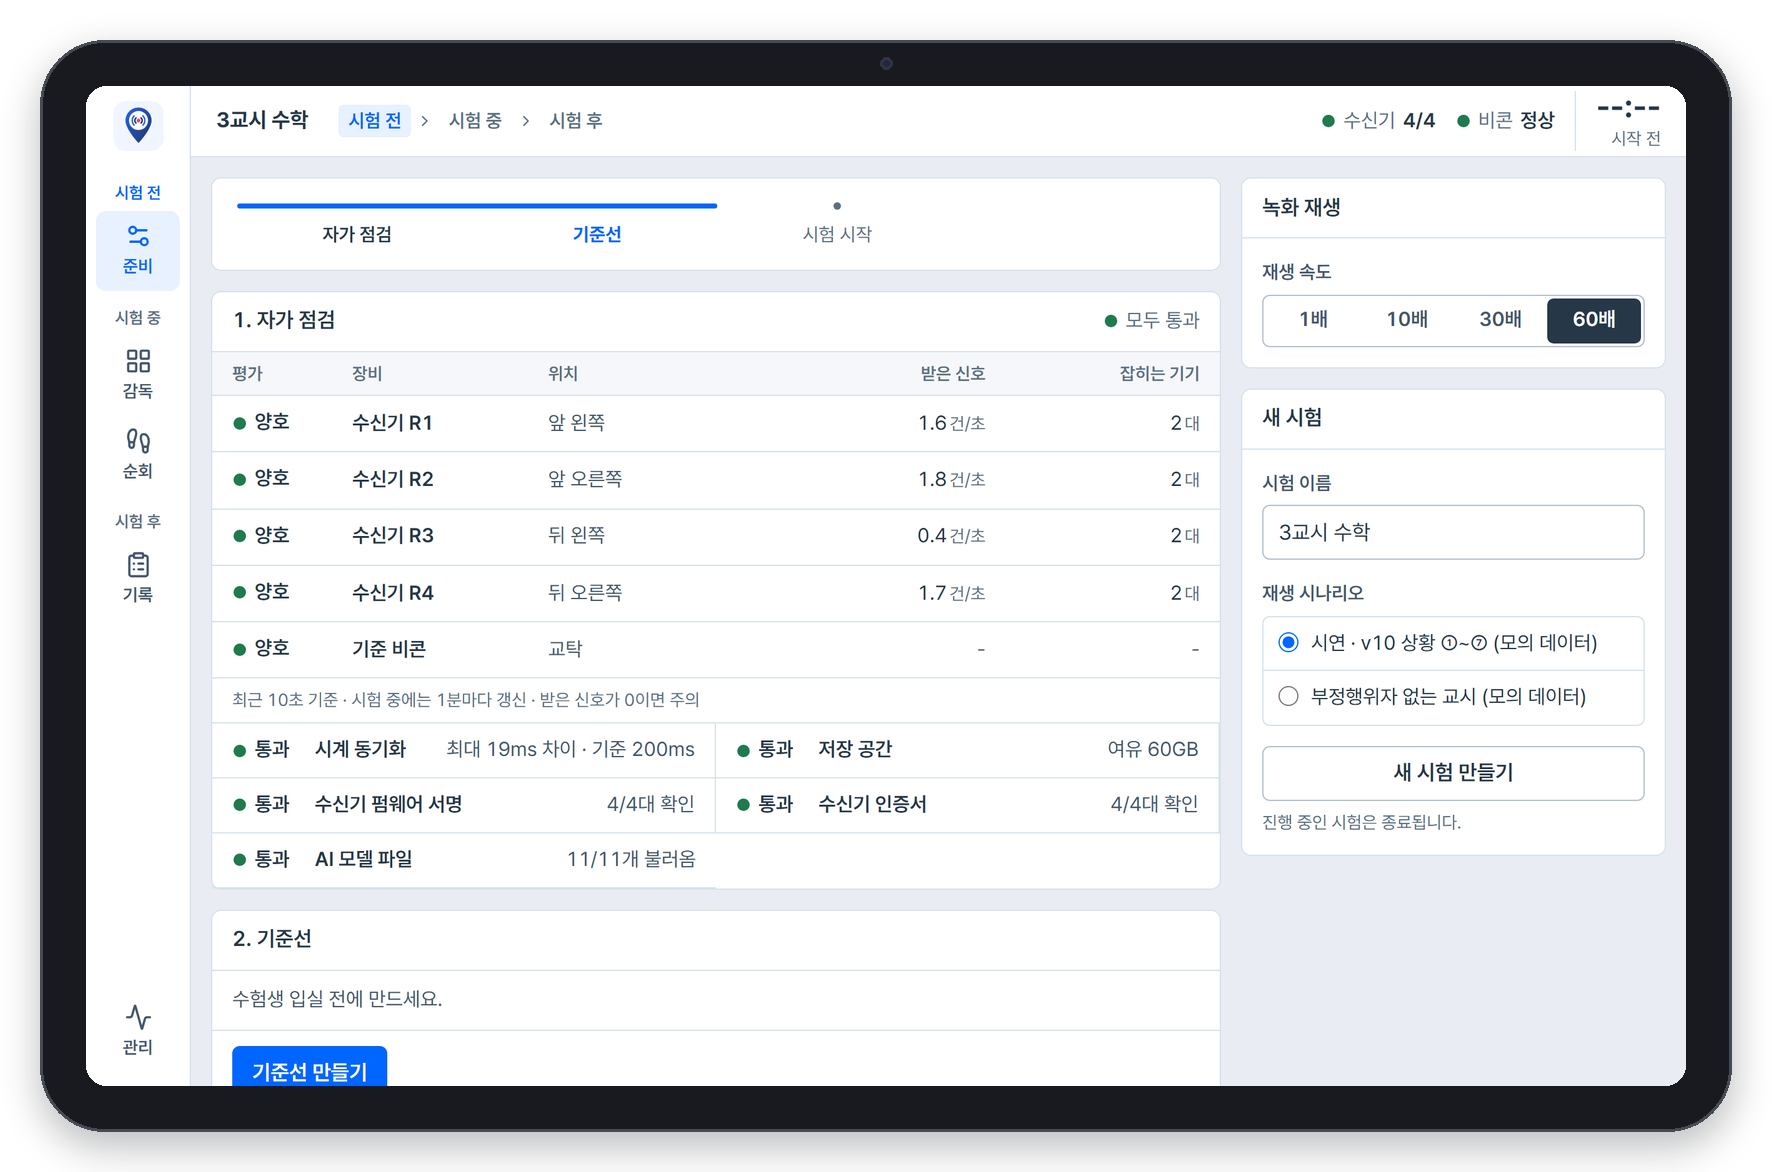
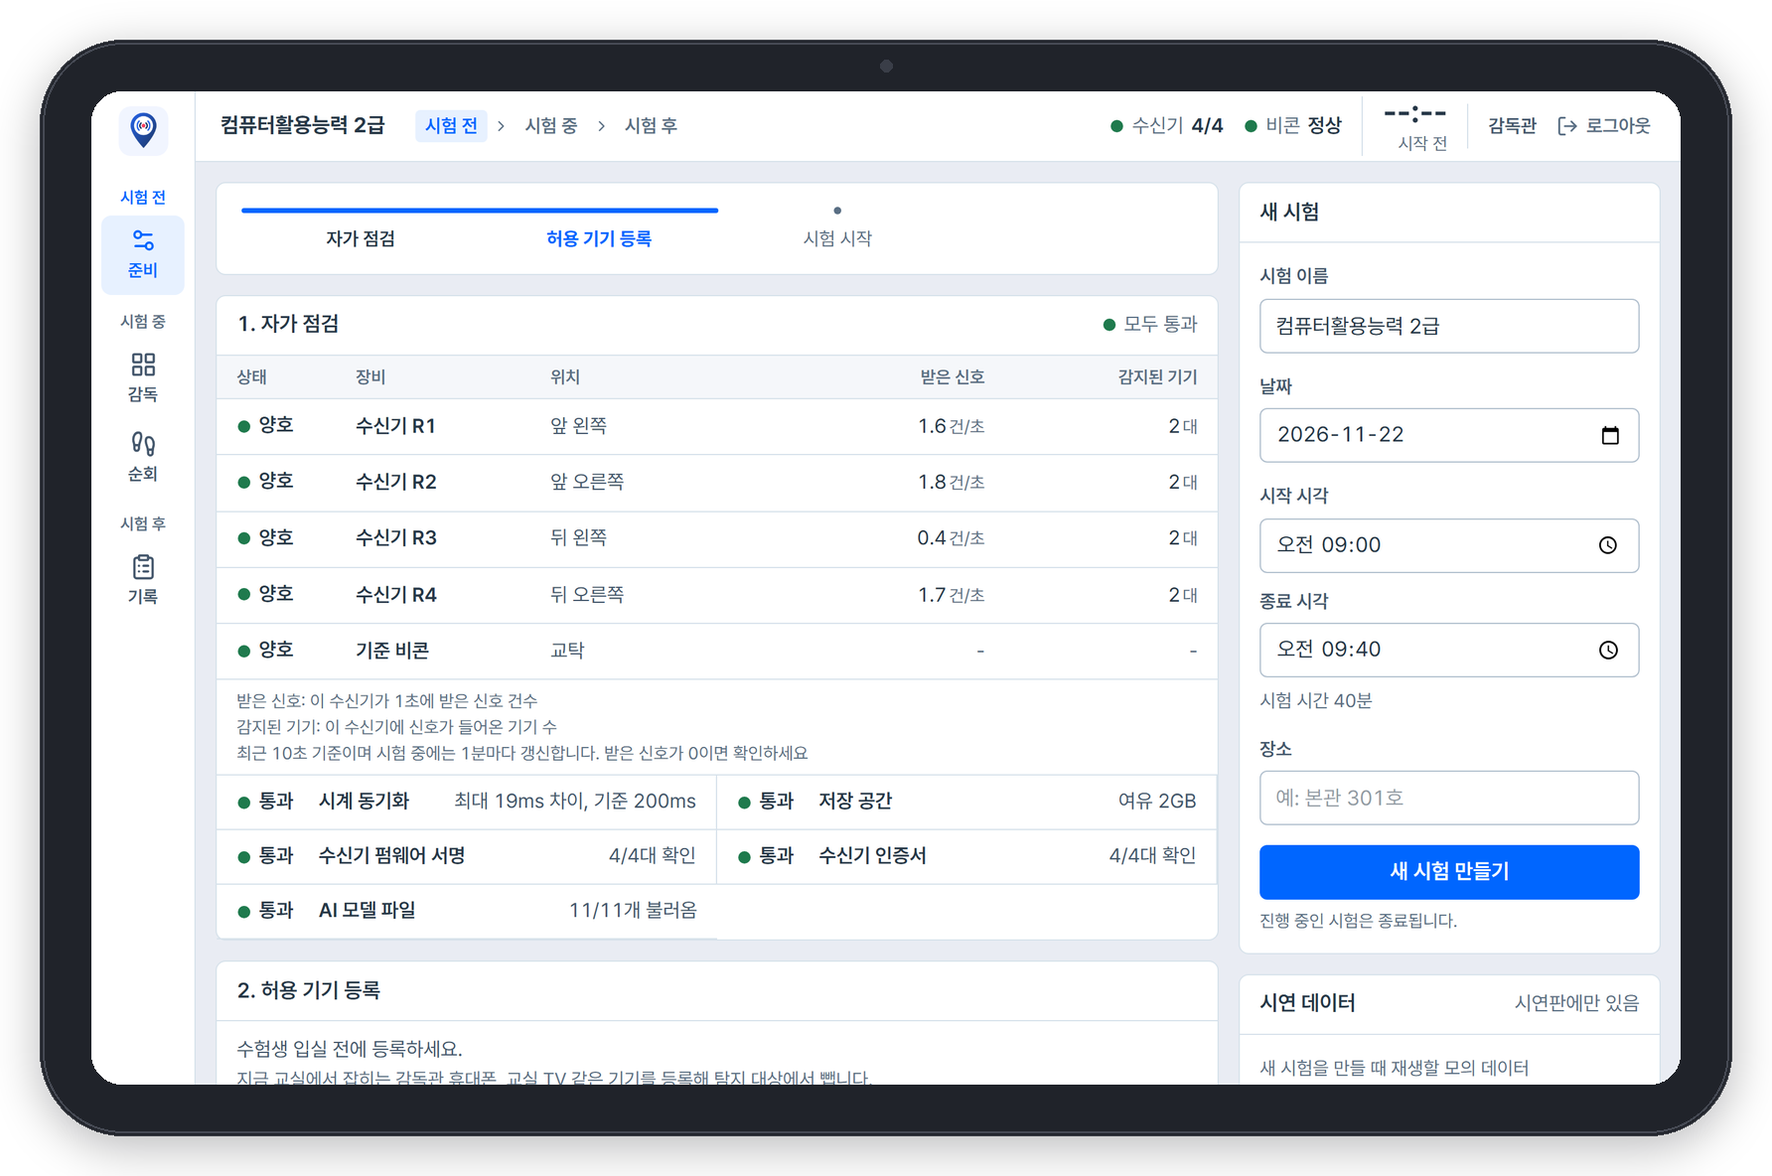
README: 로그인 · 역할, 40분 시험 기준으로 갱신, 화면 다시 캡처
- 배포판(wavespot-daup.vercel.app) 현재 화면으로 다시 캡처: 태블릿 18장, 휴대폰 4장, 대표 이미지
- 로그인과 역할 섹션 추가: 시연용 계정 3개, 역할별 화면 · 권한
- 눌러 보는 순서: 허용 기기 등록 → 감지 시작, 30배속, 09:09 · 09:20 요청, 09:30 R3 장애 시각
- 에이전트 경보 단계(Lv0~Lv4) 기준과 감독관 할 일 추가
- 첫 화면까지 걸리는 시간, 프로젝트 구조(로그인 · 권한 파일) 갱신

diff --git a/README.md b/README.md
@@ -26,8 +26,9 @@
 
 | 항목 | 내용 |
 |---|---|
-| **링크** | **https://wavespot-daup.vercel.app** · 설치 · 로그인 · API 키 없음 |
-| **첫 화면까지** | 처음 한 번 30초~1분 (서버와 AI 모델을 브라우저 안에 불러옴) |
+| **링크** | **https://wavespot-daup.vercel.app** · 설치 · API 키 없음 |
+| **로그인** | 시연용 계정 3개 · 누르면 자동 입력 |
+| **첫 화면까지** | 처음 20초 안팎 · 다시 열면 10초 남짓 |
 | **권장 화면** | 태블릿 가로 · PC 브라우저 · 휴대폰 |
 | **데이터** | 공개 데이터 · 논문 수치로 만든 모의 데이터 (실측 아님) |
 
@@ -36,18 +37,36 @@
   </tr>
 </table>
 
-웹 시연판은 현장 서버 코드(FastAPI · AI 에이전트 · 모델 6개)를 브라우저 안(Pyodide)에서 그대로 실행합니다. 새로고침하면 새 시험으로 다시 시작합니다.
+웹 시연판은 현장 서버 코드(FastAPI · AI 에이전트 · 모델 6개)를 브라우저 안(Pyodide)에서 그대로 실행합니다. 첫 화면까지 걸리는 시간은 이것을 내려받는 시간이며, 실제 시험장에서는 서버가 미리 켜져 있어 기다림이 없습니다. 시험은 30배속으로 재생되어 40분 시험이 2~3분 만에 끝납니다. 새로고침하면 새 시험으로 다시 시작하고, 로그아웃 후 다른 계정으로 들어가면 같은 시험을 이어서 볼 수 있습니다.
+
+<br/>
+
+## 로그인과 역할
+
+계정마다 볼 수 있는 화면과 할 수 있는 일이 다르며, 권한은 서버에서도 같은 기준으로 막습니다 (권한 밖 요청은 403).
+
+비밀번호는 세 계정 모두 **`wavespot2026`** 입니다.
+
+| 역할 | 보이는 화면 | 할 수 있는 일 |
+|---|---|---|
+| **감독관**<br/>`supervisor` | 준비 · 감독 · 순회 · 기록 | 교실에서 시험 진행. 순회, 수색 결과 입력, 감독관 의견 작성 |
+| **관리자**<br/>`admin` | 준비 · 감독(보기만) · 기록 · 관리 | 시험장 시스템과 장비 담당. 설정, 장애와 공격 모의 훈련 (시험 중 기준값은 잠김) |
+| **검토자**<br/>`auditor` | 기록 · 관리 | 시험 후 이의 제기와 판정을 검토하는 제3자. 열람만 가능 |
+
+서버에는 비밀번호 대신 PBKDF2 해시만 두고, 로그인하면 서명된 토큰(HMAC-SHA256, 12시간)을 받습니다.
 
 <br/>
 
 ## 직접 눌러 보는 순서 (약 5분)
 
-1. **준비** 탭: **기준선 만들기** → 시험 전 확인 2개 체크 → **감시 시작**
-2. 재생 속도를 **60배**로 바꾸면 40분 시험이 약 40초에 끝납니다.
-3. **감독** 탭: '이상 없음' → '관찰 중' → **AI 감지 카드** → **근거 보기**
-4. **휴대형으로 접근** → 순회 → 좌석을 골라 **발견 / 미발견** 입력
-5. 09:55 무렵 **수신기 R3 꺼짐** 경고 → 3대용 위치 모델로 전환 → 2분 뒤 복구
-6. **기록** 탭: 시험 후 리포트 / **관리** 탭: AI 에이전트 판단 과정 · 장애와 공격 모의 훈련 (장비 및 보안 탭에서 역할을 '관리자'로)
+1. 로그인 화면에서 **감독관**을 누르고 **로그인**
+2. **준비** 탭: 자가 점검 '모두 통과' 확인 → **허용 기기 등록** → 시험 전 확인 2개 체크 → **감지 시작**
+3. **감독** 탭: 09:07 '관찰 중' → 09:09 **정밀 수색 요청** (28번 주변 무선 이어폰) → **근거 보기**
+4. **순회** 탭에서 요청을 골라 경로 확인 → **순회 시작** → 신호가 강했던 좌석을 골라 **발견 / 미발견** 입력
+5. 09:20 두 번째 요청 (휴대폰, 영상 통화) → 근거 보기의 **Wi-Fi** 탭
+6. 09:30 **수신기 R3 꺼짐** 경고 → 3대용 위치 모델로 전환 → 2분 뒤 복구
+7. 09:40 시험 종료 → **기록** 탭: 시험 후 리포트
+8. 로그아웃 후 **관리자**로 들어가 **관리** 탭 (개요 · 에이전트 · 비상 대응 · 시스템), **검토자**로 들어가 같은 기록을 열람 전용으로 확인
 
 <br/>
 
@@ -55,30 +74,54 @@
 
 ### 태블릿 (가로 · 기준 화면)
 
+**시험 전**
+
 <table>
   <tr>
-    <td width="50%" align="center"><img src="docs/images/tablet/02_setup_baseline.png" alt="준비 · 기준선"/><br/><b>① 준비 · 기준선 만들기</b><br/><sub>입실 전 신호를 허용 목록에 등록 · 시험 전 확인 2개를 체크해야 감시 시작</sub></td>
-    <td width="50%" align="center"><img src="docs/images/tablet/03_monitor_clear.png" alt="감독 · 이상 없음"/><br/><b>② 감독 · 이상 없음</b><br/><sub>평소 화면 · 감독관이 할 일 없음</sub></td>
+    <td width="50%" align="center"><img src="docs/images/tablet/00_login.png" alt="로그인"/><br/><b>① 로그인</b><br/><sub>감독관 · 관리자 · 검토자 계정, 누르면 입력되는 시연용 계정</sub></td>
+    <td width="50%" align="center"><img src="docs/images/tablet/01_setup_check.png" alt="준비 · 자가 점검"/><br/><b>② 준비 · 자가 점검</b><br/><sub>수신기 4대 · 기준 비콘 · 시계 동기화 · 펌웨어 서명 · AI 모델 파일을 통과해야 다음 단계</sub></td>
   </tr>
   <tr>
-    <td align="center"><img src="docs/images/tablet/04_monitor_watching.png" alt="감독 · 관찰 중"/><br/><b>③ 관찰 중</b><br/><sub>교실 안 새 신호 · 30초 연속 확인 중 (요청 없음)</sub></td>
-    <td align="center"><img src="docs/images/tablet/05_monitor_request.png" alt="정밀 수색 요청"/><br/><b>④ AI 감지 · 정밀 수색 요청</b><br/><sub>위험 점수 · 대상 구역 · 근거 2줄 · 1순위/2순위 구역</sub></td>
+    <td align="center"><img src="docs/images/tablet/02_setup_baseline.png" alt="준비 · 허용 기기 등록"/><br/><b>③ 준비 · 허용 기기 등록 → 감지 시작</b><br/><sub>입실 전 교실 기기를 탐지 대상에서 빼고, 시험 전 확인 2개를 체크해야 감지 시작</sub></td>
+    <td align="center"><img src="docs/images/tablet/03_monitor_clear.png" alt="감독 · 이상 없음"/><br/><b>④ 감독 · 이상 없음</b><br/><sub>평소 화면 · 감독관이 할 일 없음, 오른쪽에 최근 에이전트 판단</sub></td>
+  </tr>
+</table>
+
+**시험 중**
+
+<table>
+  <tr>
+    <td width="50%" align="center"><img src="docs/images/tablet/04_monitor_watching.png" alt="감독 · 관찰 중"/><br/><b>⑤ 관찰 중</b><br/><sub>교실 안 새 신호 · 에이전트가 30초 더 지켜봄 (아직 조치 필요 없음)</sub></td>
+    <td width="50%" align="center"><img src="docs/images/tablet/05_monitor_request.png" alt="정밀 수색 요청"/><br/><b>⑥ 에이전트 감지 · 정밀 수색 요청</b><br/><sub>위험 점수 · 추정 위치 · 근거 2줄 · 1순위/2순위 범위</sub></td>
   </tr>
   <tr>
-    <td align="center"><img src="docs/images/tablet/08_evidence_receivers.png" alt="근거 서랍"/><br/><b>⑤ 근거 보기</b><br/><sub>근거 · 틀릴 수 있는 이유 · 금속탐지기로 볼 곳 · 수색 후 할 일</sub></td>
-    <td align="center"><img src="docs/images/tablet/09_evidence_wifi.png" alt="근거 · Wi-Fi"/><br/><b>⑥ 근거 · Wi-Fi 탭</b><br/><sub>신호원별 근거 (천장 수신기 · 휴대형 · Wi-Fi)</sub></td>
+    <td align="center"><img src="docs/images/tablet/06_evidence_receivers.png" alt="근거 보기"/><br/><b>⑦ 근거 보기</b><br/><sub>대응 단계 · 신호원별 근거 · 이 기기의 시간순 기록</sub></td>
+    <td align="center"><img src="docs/images/tablet/07_evidence_wifi.png" alt="근거 · Wi-Fi"/><br/><b>⑧ 근거 · Wi-Fi 탭</b><br/><sub>휴대폰 추정 · 통신 용도 '영상 통화'</sub></td>
   </tr>
   <tr>
-    <td align="center"><img src="docs/images/tablet/10_roam_route.png" alt="순회 경로"/><br/><b>⑦ 순회 · 경로 설정</b><br/><sub>돌 구역 순서 · 좌석마다 머무는 시간 · 예상 시간</sub></td>
-    <td align="center"><img src="docs/images/tablet/11_roam_scanning.png" alt="순회 중"/><br/><b>⑧ 순회 · 정밀 탐색 중</b><br/><sub>최고값 대비 게이지 · 지금 구역 / 다음 구역</sub></td>
+    <td align="center"><img src="docs/images/tablet/08_roam_route.png" alt="순회 경로"/><br/><b>⑨ 순회 · 경로</b><br/><sub>돌 범위와 순서 · 예상 시간 · 좌석을 눌러 넣거나 빼기</sub></td>
+    <td align="center"><img src="docs/images/tablet/09_roam_scanning.png" alt="순회 중"/><br/><b>⑩ 순회 · 휴대형 수신기로 탐색</b><br/><sub>이번 순회에서 가장 강했던 곳 대비 · 지금 범위 / 다음 범위</sub></td>
   </tr>
   <tr>
-    <td align="center"><img src="docs/images/tablet/12_roam_result.png" alt="결과 입력"/><br/><b>⑨ 결과 입력</b><br/><sub>강하게 들린 좌석 순서 → 발견 / 미발견</sub></td>
-    <td align="center"><img src="docs/images/tablet/13_receiver_down.png" alt="수신기 꺼짐"/><br/><b>⑩ 장비 고장 · 수신기 R3 꺼짐</b><br/><sub>경고 배너 · 수신기 3/4 · 3대용 위치 모델</sub></td>
+    <td align="center"><img src="docs/images/tablet/10_roam_result.png" alt="결과 입력"/><br/><b>⑪ 수색 결과 입력</b><br/><sub>신호가 강했던 좌석 순서 · 금속탐지기로 볼 곳 → 발견 / 미발견</sub></td>
+    <td align="center"><img src="docs/images/tablet/11_receiver_down.png" alt="수신기 꺼짐"/><br/><b>⑫ 장비 고장 · 수신기 R3 꺼짐</b><br/><sub>경고 배너 · 수신기 3/4 · 3대용 위치 모델로 범위를 넓게 표시</sub></td>
+  </tr>
+</table>
+
+**시험 후 · 관리**
+
+<table>
+  <tr>
+    <td width="50%" align="center"><img src="docs/images/tablet/12_report.png" alt="시험 후 리포트"/><br/><b>⑬ 기록 · 시험 후 리포트</b><br/><sub>종합 소견 · 타임라인 · 수색 내역 · 장애 기록 · 감독관 의견 · 판단 기록</sub></td>
+    <td width="50%" align="center"><img src="docs/images/tablet/13_admin_overview.png" alt="관리 · 개요"/><br/><b>⑭ 관리 · 개요 (관리자)</b><br/><sub>운영 상태 · 경보 단계별 기기 수 · 장비 · 반입 금지 의심 기기</sub></td>
   </tr>
   <tr>
-    <td align="center"><img src="docs/images/tablet/14_report.png" alt="시험 후 리포트"/><br/><b>⑪ 기록 · 시험 후 리포트</b><br/><sub>종합 소견 · 타임라인 · 수색 내역 · 감독관 의견</sub></td>
-    <td align="center"><img src="docs/images/tablet/15_admin_agent.png" alt="관리 · AI 에이전트"/><br/><b>⑫ 관리 · AI 에이전트</b><br/><sub>기기마다 부른 모델 · 건너뛴 모델 · 모델 호출 절감</sub></td>
+    <td align="center"><img src="docs/images/tablet/14_admin_agent.png" alt="관리 · 에이전트"/><br/><b>⑮ 관리 · 에이전트</b><br/><sub>경보 단계 기준 · 기기별 판단 과정 · 에이전트가 쓰는 AI 모델 6개</sub></td>
+    <td align="center"><img src="docs/images/tablet/15_admin_faults.png" alt="관리 · 비상 대응"/><br/><b>⑯ 관리 · 비상 대응</b><br/><sub>장비 이상 때 동작 단계 · 장애 3종 · 회피 · 해킹 모의 훈련</sub></td>
+  </tr>
+  <tr>
+    <td align="center"><img src="docs/images/tablet/16_admin_system.png" alt="관리 · 시스템"/><br/><b>⑰ 관리 · 시스템</b><br/><sub>교실 장비 배치 · 시험 전 자가 점검 · 역할별 권한 · 접근 기록</sub></td>
+    <td align="center"><img src="docs/images/tablet/17_auditor_log.png" alt="검토자 · 기록"/><br/><b>⑱ 검토자 · 기록 열람</b><br/><sub>기록 · 관리 화면만 보임 · 입력 버튼 없음</sub></td>
   </tr>
 </table>
 
@@ -86,10 +129,10 @@
 
 <table>
   <tr>
-    <td width="25%" align="center"><img src="docs/images/phone/03_monitor_clear.png" alt="이상 없음"/><br/><b>이상 없음</b></td>
     <td width="25%" align="center"><img src="docs/images/phone/05_monitor_request.png" alt="정밀 수색 요청"/><br/><b>정밀 수색 요청</b></td>
-    <td width="25%" align="center"><img src="docs/images/phone/11_roam_scanning.png" alt="정밀 탐색"/><br/><b>정밀 탐색</b></td>
-    <td width="25%" align="center"><img src="docs/images/phone/14_report.png" alt="시험 후 리포트"/><br/><b>시험 후 리포트</b></td>
+    <td width="25%" align="center"><img src="docs/images/phone/09_roam_scanning.png" alt="휴대형 수신기로 탐색"/><br/><b>휴대형 수신기로 탐색</b></td>
+    <td width="25%" align="center"><img src="docs/images/phone/10_roam_result.png" alt="수색 결과 입력"/><br/><b>수색 결과 입력</b></td>
+    <td width="25%" align="center"><img src="docs/images/phone/12_report.png" alt="시험 후 리포트"/><br/><b>시험 후 리포트</b></td>
   </tr>
 </table>
 
@@ -97,7 +140,19 @@
 
 ## AI 에이전트와 모델 6개
 
-에이전트가 신호마다 필요한 모델만 골라 부르고, 결과에 따라 관찰 → 휴대형 접근 → 정밀 수색 중 다음 행동을 정합니다. 모델은 모두 이 저장소에서 학습하며(`backend/app/ml`), 외부 AI 서비스 · LLM API는 쓰지 않습니다.
+판단 주체는 에이전트입니다. 에이전트가 신호마다 필요한 모델만 골라 부르고(교실 전체 1개 + 기기마다 5개), 결과에 따라 다음 경보 단계를 정합니다. 모델은 모두 이 저장소에서 학습하며(`backend/app/ml`), 외부 AI 서비스 · LLM API는 쓰지 않습니다.
+
+**에이전트 경보 단계**
+
+단계마다 **언제 올라가는지 → 감독관이 할 일**입니다.
+
+- **Lv0 이상 없음**: 허용 목록 밖 신호 없음 → 할 일 없음
+- **Lv1 추가 관찰**: 위험 40~69점 → 할 일 없음 (에이전트가 30초 더 지켜봄)
+- **Lv2 휴대형 접근**: 60점 이상 + 위치 확신, 또는 영상 통화나 사진 전송 → 휴대형 수신기로 수색 범위 순회
+- **Lv3 정밀 수색**: 70점 이상 30초 연속 + 근거 2개 이상 → 의심 좌석을 금속탐지기로 수색
+- **Lv4 2차 수색**: 정밀 수색에서 못 찾았는데 신호가 계속 잡힘 → 소지품 · 책상 · 다른 신체 부위 확인, 그래도 못 찾으면 '미해결'로 기록해 시험 후 검토
+
+**AI 모델 6개**
 
 | # | 모델 | 질문 | 알고리즘 |
 |---|---|---|---|
@@ -133,7 +188,7 @@ cd ../frontend && npm install && npm run build
 cd ../backend && .venv/bin/fastapi run app/main.py
 ```
 
-브라우저에서 **http://localhost:8000** 을 엽니다. 같은 와이파이의 태블릿 · 휴대폰은 `http://<PC IP>:8000`. (개발 모드: `server/scripts/dev.ps1` → http://localhost:5173)
+브라우저에서 **http://localhost:8000** 을 열고 위 시연용 계정으로 로그인합니다. 같은 와이파이의 태블릿 · 휴대폰은 `http://<PC IP>:8000`. (개발 모드: `server/scripts/dev.ps1` → http://localhost:5173)
 
 <br/>
 
@@ -143,15 +198,15 @@ cd ../backend && .venv/bin/fastapi run app/main.py
 WaveSpot/
 ├── frontend/                  # 감독관 앱 (React 19 · Vite · TypeScript · Tailwind v4)
 │   └── src/
-│       ├── routes/            #    준비 · 감독 · 순회 · 기록 · 관리 화면
-│       ├── components/        #    좌석 배치도 · AI 감지 카드 · 근거 서랍 · 관리 차트
-│       ├── lib/               #    API · 실시간 상태(WebSocket)
+│       ├── routes/            #    로그인 · 준비 · 감독 · 순회 · 기록 · 관리 화면
+│       ├── components/        #    좌석 배치도 · 에이전트 감지 카드 · 근거 서랍 · 관리 차트
+│       ├── lib/               #    API · 실시간 상태(WebSocket) · 역할별 화면(roles.ts)
 │       └── demo/              #    웹 시연판: 현장 서버를 브라우저 안(Pyodide)에서 실행
 ├── backend/app/               # 현장 서버 (FastAPI)
 │   ├── agent/                 #    AI 에이전트 · 수색 강화 사다리 · 기기 묶기 · 미발견 처리
 │   ├── ml/                    #    AI 모델 6개 · 근거 기반 모의 데이터 · 학습 (train_models.py)
 │   ├── services/              #    10초 창 집계 · 녹화 재생 · MQTT 입력 · 장애 · 공격 · 해시 체인
-│   ├── api/                   #    REST · WebSocket · 역할별 권한
+│   ├── api/                   #    REST · WebSocket · 로그인 토큰(auth.py) · 역할별 권한(security.py)
 │   └── webdemo.py             #    웹 시연판 어댑터 (ASGI 직접 호출)
 ├── db/                        # SQLite 스키마
 ├── server/                    # 실행 스크립트 · MQTT 재생 송출 · web/(웹 시연판 빌드)
